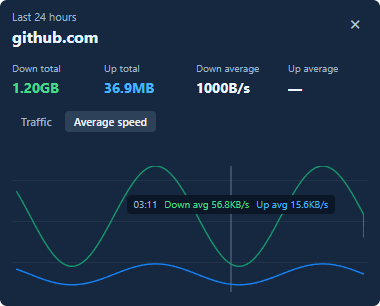
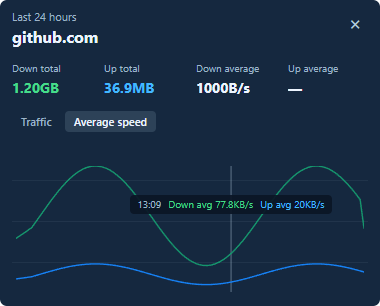
feat(history): fill chart width with valid data / 历史均速铺满横轴

diff --git a/index.html b/index.html
@@ -1513,11 +1513,25 @@
         return bytes > 0 ? null : 0;
       }
 
+      function historySpeedViewport(series) {
+        const hasValue = point => point.down !== null || point.up !== null;
+        const first = series.findIndex(hasValue);
+        if (first < 0) return [];
+        let last = series.length - 1;
+        while (last > first && !hasValue(series[last])) last -= 1;
+        // Only trim the empty ends; gaps inside the time range stay in place.
+        return series.slice(first, last + 1);
+      }
+
+      function historySpeedX(index, count) {
+        return count > 1 ? index * 100 / (count - 1) : 50;
+      }
+
       function drawHistorySpeed(samples) {
         historySpeedChart.replaceChildren();
         const now = Date.now();
         const windowMs = averageWindowMs();
-        const series = historySpeedSeries(samples, now, windowMs);
+        const series = historySpeedViewport(historySpeedSeries(samples, now, windowMs));
         const earliestRelevant = now - HISTORY_SPAN_MS - windowMs;
         const hasLegacy = samples.some(sample => sample.at >= earliestRelevant && (
           historyActiveSeconds(sample.downSeconds, Number(sample.down) || 0) === null ||
@@ -1528,7 +1542,6 @@
           historySpeedChart.innerHTML = '<span class="history-empty">' + t(hasLegacy ? 'history.legacySpeed' : 'history.emptySpeed') + '</span>';
           return;
         }
-        const step = 100 / Math.max(1, series.length - 1);
         const toY = value => (100 - (value / peak) * 100).toFixed(2);
         const path = key => {
           let drawing = false;
@@ -1537,7 +1550,8 @@
             if (value === null) { drawing = false; return ''; }
             const command = drawing ? 'L' : 'M';
             drawing = true;
-            return command + (index * step).toFixed(2) + ' ' + toY(value);
+            const point = historySpeedX(index, series.length).toFixed(2) + ' ' + toY(value);
+            return command + point + (command === 'M' ? ' l0 0' : '');
           }).filter(Boolean).join(' ');
         };
         const parts = ['<svg class="history-speed-svg" viewBox="0 0 100 100" preserveAspectRatio="none" role="img" aria-label="' + t('history.curveLabel') + '">'];
@@ -1547,7 +1561,7 @@
         parts.push('<path class="history-speed-line up" d="' + path('up') + '"></path>');
         parts.push('</svg>');
         historySpeedChart.innerHTML = parts.join('');
-        bindHistorySpeedHover(series, step);
+        bindHistorySpeedHover(series);
         if (hasLegacy) {
           const note = document.createElement('span');
           note.className = 'history-speed-legacy-note';
@@ -1558,7 +1572,7 @@
 
       // 悬停读数就是曲线在该时刻的均速（窗口内字节 ÷ 该方向有流量的秒数），与曲线本身一致，
       // 不再用整点切片的峰值代替均速。
-      function bindHistorySpeedHover(series, step) {
+      function bindHistorySpeedHover(series) {
         const svg = historySpeedChart.querySelector('.history-speed-svg');
         const cursor = historySpeedChart.querySelector('.history-speed-cursor');
         if (!svg || !series.length) return;
@@ -1591,7 +1605,7 @@
           tip.style.left = left + 'px';
           tip.style.top = top + 'px';
           if (cursor) {
-            const x = (index * step).toFixed(2);
+            const x = historySpeedX(index, series.length).toFixed(2);
             cursor.setAttribute('x1', x);
             cursor.setAttribute('x2', x);
             cursor.setAttribute('opacity', '1');

diff --git a/AGENT_MEMORY.md b/AGENT_MEMORY.md
@@ -25,10 +25,10 @@
 - 悬浮窗在屏幕上的位置保存在用户数据目录的 `widget-window.json`，窗口移动后落盘，重启后恢复并限制在可见屏幕范围内。启动时执行 `normalizeMeterLayout()`：先把整体平移到原点，若仍超过窗口可见范围则回退为两列紧凑默认布局，避免方格被拖到几千像素外后无法找回。
 - `scripts/install-start-menu.ps1` 生成开始菜单快捷方式（`NetMeter.lnk`）和 `netmeter.ico` 图标；托盘菜单“固定到开始菜单”可随时重新生成，缺失时启动也会自动补齐，窗口图标使用同一个 ico。
 - 历史流量只由方格头部域名触发，直接替换悬浮窗内容，并使用与方格一致的整窗实色深背景，不再透出桌面；仍不使用内层 `<dialog>`、嵌套弹窗或滚动区，点击累计统计行不会打开历史。
-- 历史面板新增标签栏：「历史流量」是原有的 24 小时柱状图，「历史均速」是同窗口的 24 小时曲线图，两者共用固定 380×306 窗口，切换只换图表不换摘要。历史标题从「域名 · 历史流量」改为只写域名，视图名交给标签栏表达。
+- 历史面板新增标签栏：「历史流量」是原有的 24 小时柱状图，「历史均速」是最近 24 小时内有效时间范围铺满横轴的曲线图，两者共用固定 380×306 窗口，切换只换图表不换摘要。历史标题从「域名 · 历史流量」改为只写域名，视图名交给标签栏表达。
 - 历史标签采用“记住上次选择”，不新增设置页默认视图：首次使用是“历史流量”，切换时把 `traffic` 或 `speed` 存到独立的 `netmeter-history-tab` 本地键；关闭重开、换域名和应用重启后恢复。存储不可用时当前渲染会话仍保留选择；无效存储值回退“历史流量”。
-- 「历史均速」曲线口径与方格均速一致：横轴最近 24 小时每分钟，纵轴是当前统计窗口（2/5/10 分钟）内的字节 ÷ 该方向有流量秒数，下载上传各自独立。IndexedDB 分钟样本的 `downSeconds`/`upSeconds` 保存各方向活跃秒。2026-11-06 纠错：旧记录有字节而缺少活跃秒时，原读取和同分钟更新都擅自按 60 秒兜底，短时高速流量会被显著压低；现 `historyActiveSeconds` 返回 `null` 表示未知，`historySpeedSeries` 按方向阻断受污染窗口的曲线，写入侧合并新样本时继续保留该方向的未知状态。全缺秒时双语说明，部分缺秒时图表标注；历史流量柱状图保留字节。先前已被旧代码补写成 60 秒的记录无法与真正持续 60 秒的样本可靠区分，不能自动恢复真实均速。
-- 曲线用 SVG 画在 100×100 的 viewBox 里并 `preserveAspectRatio="none"` 拉伸到图表区，`vector-effect: non-scaling-stroke` 保证描边不被拉粗；下载/上传两条曲线共用一个纵轴上限（取两者最大值），某个方向在窗口内没有流量时该段路径断开而不是画成 0。悬停提示由 `bindHistorySpeedHover` 绑定在 SVG 上：一个透明 `rect` 接收指针事件，另有 `line.history-speed-cursor` 标出光标所在分钟，提示浮层 `.history-speed-tip` 显示该分钟的下载/上传均速（与曲线点同值，`data-down`/`data-up` 暴露原始字节每秒值供测试断言）。
+- 「历史均速」曲线口径与方格均速一致：从最近 24 小时数据按分钟计算，显示范围裁掉首尾无有效均速的空白，纵轴是当前统计窗口（2/5/10 分钟）内的字节 ÷ 该方向有流量秒数，下载上传各自独立。IndexedDB 分钟样本的 `downSeconds`/`upSeconds` 保存各方向活跃秒。2026-11-06 纠错：旧记录有字节而缺少活跃秒时，原读取和同分钟更新都擅自按 60 秒兜底，短时高速流量会被显著压低；现 `historyActiveSeconds` 返回 `null` 表示未知，`historySpeedSeries` 按方向阻断受污染窗口的曲线，写入侧合并新样本时继续保留该方向的未知状态。全缺秒时双语说明，部分缺秒时图表标注；历史流量柱状图保留字节。先前已被旧代码补写成 60 秒的记录无法与真正持续 60 秒的样本可靠区分，不能自动恢复真实均速。
+- 用户要求历史均速直接满宽显示：`historySpeedViewport` 仅裁掉首尾两方向均为空的分钟，中间断档不压缩；`historySpeedX` 统一曲线与悬停位置映射，单点居中并用零长度圆端描边显示，不虚构时长。曲线用 SVG 画在 100×100 的 viewBox 里并 `preserveAspectRatio="none"` 拉伸到图表区，`vector-effect: non-scaling-stroke` 保证描边不被拉粗；下载/上传两条曲线共用一个纵轴上限（取两者最大值），某个方向在窗口内没有流量时该段路径断开而不是画成 0。悬停提示由 `bindHistorySpeedHover` 绑定在 SVG 上：一个透明 `rect` 接收指针事件，另有 `line.history-speed-cursor` 标出光标所在分钟，提示浮层 `.history-speed-tip` 显示该分钟的下载/上传均速（与曲线点同值，`data-down`/`data-up` 暴露原始字节每秒值供测试断言）。
 - 标签栏用 `role="tablist"`/`role="tab"` + `aria-selected` + roving tabindex，左右方向键在两个标签间切换；切换标签会重新读一次 IndexedDB，让曲线反映面板打开期间新增的样本。
 - 设置页的监听地址和 API 密钥右侧为显示/隐藏按钮。设置窗和悬浮方格是同时显示、可独立操作的两个窗口；若两者重叠，设置窗会自动移动到方格旁边，不再隐藏方格；悬浮窗在画布尺寸变化后会重新避让，避免方格被设置窗盖住。
 - 设置页在已保存密钥时显示“已安全保存，留空继续使用”。留空保存会复用同地址密钥；禁用控制器不会删除密钥，更换监听地址时需重新输入。
@@ -37,11 +37,11 @@
 - 下拉框的取值（「7 天」「30 天」「长期」「最近 2/5/10 分钟」）是本地存储用的稳定键，两种语言完全一致；`SELECT_OPTION_KEYS` 只映射「取值 → 文案键」，`applyStaticTranslations()` 按当前语言重写 option 的可见文本，取值本身不变。因此历史数据、统计窗口和已保存设置在两种语言下完全兼容。
 - 英文文案更宽，`body.lang-en .stat` 把统计行标签列从 30px 放宽到 37px、数值列收窄到 59px，方格总尺寸仍是 180×148；探针用 `Range` 量出标签文字右边缘与数值列左边缘的间距，要求中英文都 ≥3px，避免英文 “Total” 贴住方向箭头。
 - Electron 主进程也做了本地化：`main.mjs` 的 `UI_STRINGS` 提供托盘菜单和设置窗口标题的中英文案，`ipcMain.on('app:language')` 收到渲染进程的 `setLanguage` 后重建托盘菜单并更新窗口标题；`preload.cjs` 暴露 `setLanguage`。
-- `scripts/screenshot-probe.cjs` 用离屏 Electron 渲染中英文两版界面并写出 `docs/screenshots/` 下的 8 张效果图（方格、历史流量柱状图、历史均速曲线、设置页，中英各一套），README 双语版引用这些图。设置页截图按内容高度加高，让「界面语言」下拉框出现在同一张图里；方格截图用 384×162、历史截图用真实的 380×306。
+- `scripts/screenshot-probe.cjs` 用离屏 Electron 渲染中英文两版界面并写出 `docs/screenshots/` 下的 8 张效果图（方格、历史流量柱状图、历史均速曲线、设置页，中英各一套），README 双语版引用这些图；`--recent-speed` 可生成 90 分钟合成历史到 `scripts/`，用于核验短时曲线全宽显示并更新中英文均速效果图。设置页截图按内容高度加高，让「界面语言」下拉框出现在同一张图里；方格截图用 384×162、历史截图用真实的 380×306。
 
 ## 验证
 
-- 2026-11-06 复核：`npm test` 38/38 通过，覆盖密钥不泄漏到状态响应、启用/禁用配置、对齐落位、窗口化均速与峰值、历史均速、历史标签记忆和双语字典；`index.html` 内嵌脚本及 Electron 脚本语法检查通过。正式 Electron 实例已重启并在 4174 监听，`/api/status` 返回已启用且已配置；实机切换到历史均速后打开另一域名，恢复同一标签，检查后还原原先的历史流量选择。
+- 2026-11-06 复核：`npm test` 43/43 通过，覆盖密钥不泄漏到状态响应、启用/禁用配置、对齐落位、窗口化均速与峰值、历史均速、历史标签记忆和双语字典；`index.html` 内嵌脚本及 Electron 脚本语法检查通过。正式 Electron 实例已重启并在 4174 监听，`/api/status` 返回已启用且已配置；实机历史均速已确认铺满横轴，保留历史均速面板打开供用户查看；桌面控制与实例租约已释放。
 - `layout.test.mjs` 从 `index.html` 直接取出 `nearestAlignment` 与 `settleMeterPosition` 两个纯函数做单元测试：8px 阈值、落点保持指针位置、邻近方格不得改写坐标、拖动中位置不受对齐影响。
 - `average.test.mjs`（10 项）取出 `windowRates`、`trimRateSamples`、`averageWindowMs` 做纯函数测试：均速与峰值共用窗口裁剪及边界、下载/上传各自独立分母、空闲秒排除、`elapsed` 加权、空窗返回 `null`、峰值取单次采样最大值且滑出窗口即过期、样本裁剪、2/5/10 分钟映射与默认 5 分钟，并断言会话级累计字段已移除。
 - `scripts/average-probe.cjs` 用离屏 Electron 真实窗口 + 合成控制器（下载恒定 100B/s、上传恒为 0）验证 10 项：设置页三档下拉与默认值、保存写入 `localStorage`、重载恢复、悬浮窗读到 2 分钟窗口、只有下载有流量时 `100B/s` 且上传显示「—」、停流后均速不衰减（实测 97.3B/s）、切换峰值显示窗口内峰值、把渲染器时钟快进 3 分钟后峰值与均速都回落为「—」、无脚本错误。运行需 `env -u ELECTRON_RUN_AS_NODE node_modules/electron/dist/electron.exe scripts/average-probe.cjs`；本会话环境默认带 `ELECTRON_RUN_AS_NODE=1`，不取消会让 Electron 退化成普通 Node，且 `.mjs` 探针在当前 Electron 45 里无法解析 `electron` 具名导出，故用 `.cjs`。
@@ -55,10 +55,10 @@
 - 仓库已初始化为 Git 仓库并推送到 `https://github.com/Augmigrow/NetMeter.git`（私有仓库，默认分支 `main`）。GitHub 需要走系统代理 `http://127.0.0.1:7897`，直连超时；代理配置写在仓库本地 `.git/config` 的 `http.proxy`/`https.proxy`。凭据用 Windows 凭据管理器的 GitHub oauth token，Git Credential Manager 会自动提供，不要把 token 写进文件或命令行。本仓库作者身份按兄弟仓库统一为 `Augmigrow <3123196845@qq.com>`，只在仓库本地配置。
 - `scripts/start-app.ps1` 负责重启应用：先杀掉旧的 NetMeter electron 进程，再用 `node_modules/electron/dist/electron.exe .` 启动并轮询 `http://127.0.0.1:4174/api/status` 直到就绪。Windows 下 Electron 是 GUI 子系统进程，必须先 `Remove-Item Env:ELECTRON_RUN_AS_NODE`（本会话环境默认带 `ELECTRON_RUN_AS_NODE=1`）。`scripts/run-probe.ps1` 是通用探针启动器。
 - `scripts/drag-probe.cjs` 现有 15 项场景（含逐帧采样、远距离、不松手、整窗拖动、副屏坐标、先鼠标后 Ctrl 切换），全部通过。
-- `history-speed.test.mjs`（11 项）测试分钟曲线、方向独立活跃秒、空闲秒排除、2/5/10 分钟窗口、跨分钟双向突发与方格 `windowRates` 定量一致、旧记录缺秒不臆造 60 秒且按方向断开、同分钟新数据合并仍保留旧记录未知秒数；另测历史标签记忆和回退。
+- `history-speed.test.mjs`（13 项）测试分钟曲线、方向独立活跃秒、空闲秒排除、2/5/10 分钟窗口、跨分钟双向突发与方格 `windowRates` 定量一致、旧记录缺秒不臆造 60 秒且按方向断开、同分钟新数据合并仍保留旧记录未知秒数；另测历史标签记忆和回退、首尾裁剪后全宽映射、内部断档、单点与空集。
 - `i18n.test.mjs`（12 项）直接从 `index.html` 取出 `I18N` 字典做纯函数测试：中英键集合完全一致、没有空文案、英文文案不含中文、占位符两边一致、`t()` 能替换占位符并在缺键时回退到中文、标记里的 `data-i18n*` 钩子和 JS 里的 `t('key')` 引用都指向存在的键、语言下拉框存在且语言不写进设置对象、`setLanguage` 会重绘方格与历史面板、悬浮方格通过 `storage` 事件跟随、主进程托盘菜单与窗口标题已本地化。
 - `scripts/i18n-probe.cjs` 用离屏 Electron 真实窗口验证双语渲染与切换；最近保存的探针日志为 27/27 通过，覆盖中英文方格文案、`<html lang>`、标题与 aria 文案、语言落盘、历史面板标题与标签、摘要四列、曲线 aria-label 与悬停提示、切回中文、另一个窗口（设置页）跟随切换、下拉框显示文案翻译但取值不变、标签文字与箭头间距 ≥3px、无渲染脚本错误。
-- `scripts/history-curve-probe.cjs` 用离屏 Electron 真实窗口（内容区 380×306）验证历史面板；最近探针为 22/22 通过，覆盖流量页 24 根柱、速度页两条 SVG 曲线、标签互斥切换、分钟均速悬停读数而非小时峰值、曲线无 NaN、面板不溢出，以及选择后关闭重开和重载窗口的双向记忆。Windows 下 Electron 是 GUI 子系统进程、不接管控制台，探针把结果写入 `scripts/history-curve-probe.log`，运行时需 `Remove-Item Env:ELECTRON_RUN_AS_NODE` 后用 `Start-Process -WindowStyle Hidden` 启动并轮询日志文件。
+- `scripts/history-curve-probe.cjs` 用离屏 Electron 真实窗口（内容区 380×306）验证历史面板；最近探针为 27/27 通过，覆盖流量页 24 根柱、速度页两条 SVG 曲线、标签互斥切换、分钟均速悬停读数而非小时峰值、曲线无 NaN、面板不溢出，以及选择后关闭重开和重载窗口的双向记忆、短时历史铺满曲线宽度、左右端实际分钟和中间空闲断档。Windows 下 Electron 是 GUI 子系统进程、不接管控制台，探针把结果写入 `scripts/history-curve-probe.log`，运行时需 `Remove-Item Env:ELECTRON_RUN_AS_NODE` 后用 `Start-Process -WindowStyle Hidden` 启动并轮询日志文件。
 - `node --check` 已通过 `main.mjs`、`preload.cjs`、`server.mjs`、`average.test.mjs`、`scripts/average-probe.cjs`，内嵌前端脚本语法已通过；自由拖动使用 Pointer Events、分轴对齐和指针捕获，窗口尺寸由像素外接边界驱动。Electron 实际启动时确认设置窗口与方格窗口同时存在且会互相避让。
 - 通过 CDP 派发指针事件并在实际 Electron 窗口中验证：普通左键拖动使悬浮窗整体位移且两格相对位置不变（实测窗口 +80/+60），`Ctrl` 拖动只移动被按下的那一格（实测 +120/+80，另一格不动）；拖出画布左/上边界时悬浮窗同步平移且方格仍跟随指针；域名点击仍打开历史、齿轮点击仍打开设置、均速/峰值仍可切换；历史窗口实测为 380×306。
 - Electron 45.2.1 已安装并启动过；使用独立临时用户数据写入合成测试密钥后，完成一次真实 Electron 重启，确认 `/api/status` 自动恢复为已配置，设置页显示安全保存提示，随后已清理临时测试数据。正式实例在 4174 监听。

diff --git a/README.md b/README.md
@@ -48,7 +48,7 @@ npm start
 
 开始菜单里的 `NetMeter` 快捷方式由 `scripts/install-start-menu.ps1` 生成（同时写入 `netmeter.ico` 图标）；托盘菜单“固定到开始菜单”可重新生成，快捷方式缺失时应用启动也会自动补齐。
 
-方格的统计行默认显示均速；点击“均速”可切换为“峰值”，每个方格独立切换。均速与峰值共用设置页选定的统计窗口（最近 2 / 5 / 10 分钟，默认 5 分钟）：均速是窗口内该方向的字节增量 ÷ 该方向有流量的秒数，下载与上传各自独立、空闲秒不计入分母；峰值取窗口内该方向有流量的最高单次采样速度，样本滑出窗口后自动回落，窗口内无流量时两者都显示“—”。点击方格顶部的域名可查看该域名的历史流量，历史视图直接在方格窗口内展开，使用与方格一致的整窗实色背景，不使用内层弹窗或滚动区域。历史面板带两个标签：「历史流量」是最近 24 小时的柱状图，「历史均速」是同窗口的曲线图，纵轴是同一统计窗口内的均速，口径与方格一致。曲线上的悬停读数给出光标所在分钟的均速（该统计窗口内该方向的字节增量 ÷ 有流量的秒数），并带一条竖直指示线标出该分钟；历史曲线只用均速，不使用峰值代替。旧历史若有字节但缺少对应方向的活跃秒，该方向窗口均速无法还原，曲线留空并提示，流量柱状图仍保留原字节；不再擅自按 60 秒摊薄。此前已经被补写为 60 秒的少量旧记录无法与真实 60 秒数据可靠区分，不能自动恢复。
+方格的统计行默认显示均速；点击“均速”可切换为“峰值”，每个方格独立切换。均速与峰值共用设置页选定的统计窗口（最近 2 / 5 / 10 分钟，默认 5 分钟）：均速是窗口内该方向的字节增量 ÷ 该方向有流量的秒数，下载与上传各自独立、空闲秒不计入分母；峰值取窗口内该方向有流量的最高单次采样速度，样本滑出窗口后自动回落，窗口内无流量时两者都显示“—”。点击方格顶部的域名可查看该域名的历史流量，历史视图直接在方格窗口内展开，使用与方格一致的整窗实色背景，不使用内层弹窗或滚动区域。历史面板带两个标签：「历史流量」是最近 24 小时的柱状图，「历史均速」是同窗口的曲线图，纵轴是同一统计窗口内的均速，口径与方格一致。曲线会将最近 24 小时内首尾有效均速点之间的真实时间范围铺满横轴，中间断档保留；悬停读数仍对应实际分钟。曲线上的悬停读数给出光标所在分钟的均速（该统计窗口内该方向的字节增量 ÷ 有流量的秒数），并带一条竖直指示线标出该分钟；历史曲线只用均速，不使用峰值代替。旧历史若有字节但缺少对应方向的活跃秒，该方向窗口均速无法还原，曲线留空并提示，流量柱状图仍保留原字节；不再擅自按 60 秒摊薄。此前已经被补写为 60 秒的少量旧记录无法与真实 60 秒数据可靠区分，不能自动恢复。
 
 历史面板会记住上次选中的标签：下次打开任意域名的历史或重启应用后会恢复该视图。首次使用默认“历史流量”，无需在设置页另选默认值。
 
@@ -109,7 +109,7 @@ After launch the settings window and the always-on-top tiles are visible at the 
 
 The `NetMeter` shortcut in the Start menu is generated by `scripts/install-start-menu.ps1` (which also writes the `netmeter.ico` icon). The tray entry “Pin to Start menu” regenerates it, and the app recreates it on startup when it is missing.
 
-The statistics row of a tile shows the average by default; click “Avg” to switch it to “Peak”. Each tile switches on its own. The average and the peak share the statistics window chosen in the settings (last 2 / 5 / 10 minutes, 5 minutes by default): the average is the byte delta in that window ÷ the seconds in that direction that carried traffic, computed separately for download and upload with idle seconds excluded from the denominator; the peak is the highest single-sample speed of that direction inside the same window, and it falls back as soon as its sample leaves the window. Both show “—” when the direction had no traffic in the window. Click the domain at the top of a tile to open that domain's traffic history; the history view expands inside the tile window itself, using the same solid window background as the tiles, with no inner dialog and no scroll area. The history panel has two tabs: “Traffic” is the bar chart of the last 24 hours, and “Average speed” is the curve for the same window, whose vertical axis is the average inside the same statistics window and uses the same definition as the tiles. Hovering the curve reads out the average speed of the minute under the cursor (the byte delta in that statistics window ÷ the seconds that carried traffic) and marks the minute with a vertical guide line; the history curve only ever reports averages and never substitutes a peak. If older byte records lack active seconds for a direction, that direction’s window cannot have a truthful average: the curve has a gap and a bilingual notice, while the traffic bars retain their byte totals. We no longer spread such bytes over an invented 60 seconds. Some earlier records already written with a synthetic 60 seconds cannot reliably be distinguished from genuine 60-second records or reconstructed automatically.
+The statistics row of a tile shows the average by default; click “Avg” to switch it to “Peak”. Each tile switches on its own. The average and the peak share the statistics window chosen in the settings (last 2 / 5 / 10 minutes, 5 minutes by default): the average is the byte delta in that window ÷ the seconds in that direction that carried traffic, computed separately for download and upload with idle seconds excluded from the denominator; the peak is the highest single-sample speed of that direction inside the same window, and it falls back as soon as its sample leaves the window. Both show “—” when the direction had no traffic in the window. Click the domain at the top of a tile to open that domain's traffic history; the history view expands inside the tile window itself, using the same solid window background as the tiles, with no inner dialog and no scroll area. The history panel has two tabs: “Traffic” is the bar chart of the last 24 hours, and “Average speed” is the curve for the same window, whose vertical axis is the average inside the same statistics window and uses the same definition as the tiles. The time range between the first and last valid average points within the last 24 hours fills the plot width; internal gaps retain their actual duration and hover readouts keep the real minute. Hovering the curve reads out the average speed of the minute under the cursor (the byte delta in that statistics window ÷ the seconds that carried traffic) and marks the minute with a vertical guide line; the history curve only ever reports averages and never substitutes a peak. If older byte records lack active seconds for a direction, that direction’s window cannot have a truthful average: the curve has a gap and a bilingual notice, while the traffic bars retain their byte totals. We no longer spread such bytes over an invented 60 seconds. Some earlier records already written with a synthetic 60 seconds cannot reliably be distinguished from genuine 60-second records or reconstructed automatically.
 
 The history panel remembers the last selected tab. Reopening another domain or restarting the app restores that view. On first use it starts with “Traffic”; there is no separate default-view setting.
 

diff --git a/UI_DESIGN_SPEC.md b/UI_DESIGN_SPEC.md
@@ -128,7 +128,7 @@
 - 摘要下方是标签栏，只有“历史流量”和“历史均速”两项，11px 字，选中项用同一套语义底色高亮；标签栏紧贴图表，切换只更换图表，摘要与窗口尺寸不变。
 - 首次打开历史显示“历史流量”；用户切换标签后记住最近使用的视图，关闭重开、切换域名及重启应用后仍恢复该视图。偏好独立于控制器设置保存，不在设置页增加默认视图选项；存储不可用时当前窗口内仍记住选择。
 - “历史流量”图表为 24 小时柱状区，允许细网格线，但不得增加独立容器边框。
-- “历史均速”图表为 24 小时曲线区：横轴是最近 24 小时的每一分钟，纵轴是当前统计窗口（2/5/10 分钟）内的均速，下载与上传各自独立、口径与方格一致（字节 ÷ 有流量的秒数），两条曲线共用一个纵轴上限，下载用下载色、上传用上传色，曲线宽 1.4px、不填充、不加阴影，窗口内没有该方向流量的区段断开而不是画成 0。旧分钟记录有字节但缺少该方向活跃秒时，不得假定整分钟 60 秒或猜测高速值：含此记录的窗口该方向曲线断开、悬停显示“—”；全部不可计算时显示双语说明，部分区段不可计算时在图表内提示。历史流量柱状图仍保留原始字节。旧版已经写入过 60 秒的个别记录与真实 60 秒记录无法可靠区分，不自动篡改。
+- “历史均速”从最近 24 小时的数据按分钟计算曲线；首尾有效均速点之间的时间范围直接铺满横轴，不为首尾无数据区段保留空白。中间空闲或缺失区段仍保留真实时间间隔并断线，下载与上传共享同一时间映射，只有一个有效分钟时居中显示点、不虚构跨度。纵轴是当前统计窗口（2/5/10 分钟）内的均速，下载与上传各自独立、口径与方格一致（字节 ÷ 有流量的秒数），两条曲线共用一个纵轴上限，下载用下载色、上传用上传色，曲线宽 1.4px、不填充、不加阴影，窗口内没有该方向流量的区段断开而不是画成 0。旧分钟记录有字节但缺少该方向活跃秒时，不得假定整分钟 60 秒或猜测高速值：含此记录的窗口该方向曲线断开、悬停显示“—”；全部不可计算时显示双语说明，部分区段不可计算时在图表内提示。历史流量柱状图仍保留原始字节。旧版已经写入过 60 秒的个别记录与真实 60 秒记录无法可靠区分，不自动篡改。
 - 曲线区沿用与柱状区相同的细网格线与尺寸；悬停提示读出光标所在分钟的下载与上传均速，即该分钟曲线点的值（同一统计窗口内的字节增量 ÷ 有流量的秒数），并用一条竖直指示线标出该分钟。历史曲线只报均速，不得用峰值代替，也不得按小时聚合成一个读数；提示不追加说明文字。
 - 两个标签都必须有可见文字与可见键盘焦点，左右方向键在标签之间切换。
 
